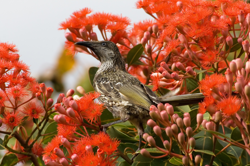
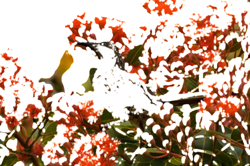
Add tunable parameters to GlintFilter and strengthen the example
GlintFilter wrapped the JH Labs filter with no way to set its intensity,
so the example was barely visible. Add a constructor exposing threshold,
amount, length and blur (no-arg constructor keeps the JH Labs defaults),
and use a lower threshold / higher amount / longer rays in the example so
the glint is clearly visible. Extends GlintFilterTest accordingly.

diff --git a/scrimage-filters/src/test/kotlin/com/sksamuel/scrimage/filter/GlintFilterTest.kt b/scrimage-filters/src/test/kotlin/com/sksamuel/scrimage/filter/GlintFilterTest.kt
@@ -15,4 +15,12 @@ class GlintFilterTest : FunSpec({
    test("GlintFilter produces a non-null result") {
       image.filter(GlintFilter()).awt() shouldNotBe null
    }
+   test("a stronger glint (lower threshold, higher amount) differs from the default") {
+      val default = image.filter(GlintFilter())
+      val strong = image.filter(GlintFilter(0.5f, 0.5f, 10, 0.0f))
+      strong shouldNotBe default
+   }
+   test("the no-arg constructor matches the explicit JH Labs defaults") {
+      image.filter(GlintFilter()) shouldBe image.filter(GlintFilter(1.0f, 0.1f, 5, 0.0f))
+   }
 })

diff --git a/scrimage-filters/src/main/java/com/sksamuel/scrimage/filter/GlintFilter.java b/scrimage-filters/src/main/java/com/sksamuel/scrimage/filter/GlintFilter.java
@@ -5,11 +5,38 @@ import java.awt.image.BufferedImageOp;
 /**
  * Adds a glint/sparkle to the bright parts of the image. Wraps the JH Labs
  * GlintFilter.
+ *
+ * <p>The intensity is controlled by the threshold (the brightness above which a
+ * pixel glints, lower means more pixels glint), the amount (how strong the
+ * glint is), the length of the star rays, and an optional blur applied before
+ * thresholding.
  */
 public class GlintFilter extends BufferedOpFilter {
 
+    private final float threshold;
+    private final float amount;
+    private final int length;
+    private final float blur;
+
+    public GlintFilter(float threshold, float amount, int length, float blur) {
+        this.threshold = threshold;
+        this.amount = amount;
+        this.length = length;
+        this.blur = blur;
+    }
+
+    /** Uses the JH Labs defaults (threshold 1.0, amount 0.1, length 5, no blur). */
+    public GlintFilter() {
+        this(1.0f, 0.1f, 5, 0.0f);
+    }
+
     @Override
     public BufferedImageOp op() {
-        return new thirdparty.jhlabs.image.GlintFilter();
+        thirdparty.jhlabs.image.GlintFilter op = new thirdparty.jhlabs.image.GlintFilter();
+        op.setThreshold(threshold);
+        op.setAmount(amount);
+        op.setLength(length);
+        op.setBlur(blur);
+        return op;
     }
 }